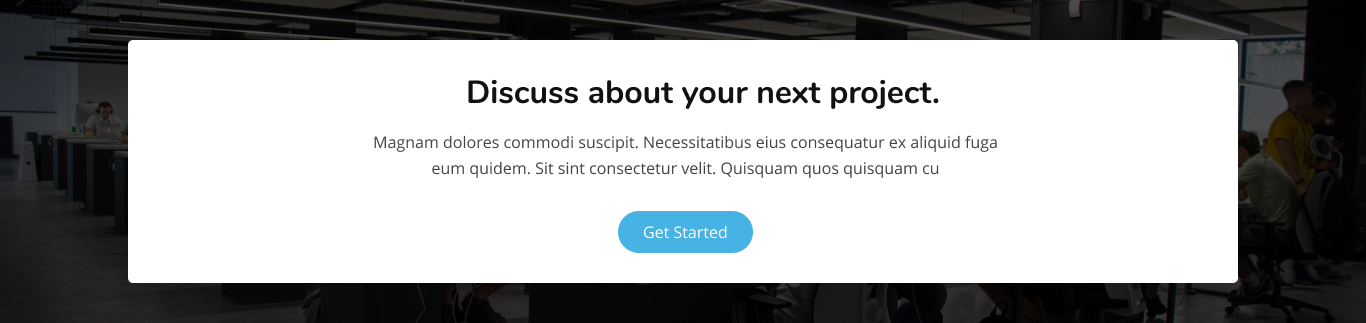
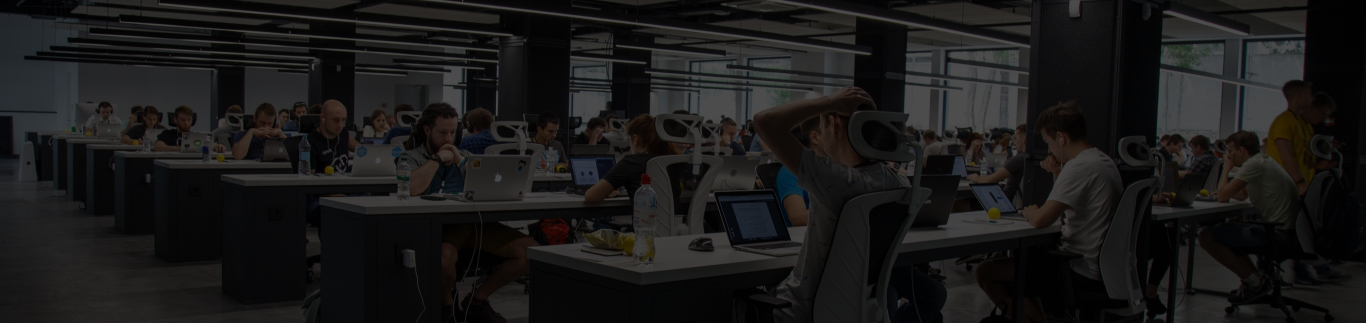
add cta section and project section

diff --git a/index.html b/index.html
@@ -250,8 +250,91 @@
        </div>
      </div>
    </section>
-   <!-- services section end -->
+   <!-- services section end -->   
+
+   <!-- CTA section start -->
    
+   <section class="cta">
+     <div class="container">
+       <div class="cta-box">
+        <div class="section-title text-center">
+          <h2 class="m-b-15">Discuss about your next project.</h2>
+          <p class="m-b-30">Magnam dolores commodi suscipit. eius consequatur ex aliquid fuga eum quidem. Sit sint consectetur velit. Quisquam quos quisquam</p>
+          <button class="btn btn-primary">Get Started</button>
+         </div>
+       </div>
+     </div>
+   </section>
+
+   <!-- CTA section end -->
+
+    <!-- project section start -->
+   
+   <section class="project">
+    <div class="section-title text-center m-b-60">
+      <h2 class="m-b-25">Our Latest Project</h2>
+      <p>Magnam dolores commodi suscipit. Necessitatibus eius consequatur ex aliquid fuga eum quidem. Sit sint consectetur velit. Quisquam quos quisquam cupidit idem hic quas.</p>
+    </div>
+     <div class="container">
+       <div class="row text-center">
+        <div class="col-md-4 m-b-30">
+          <div class="project-box">
+            <img src="img/project-1.png" class="img-100">
+            <div class="project-hover text-left">
+              <span class="primary-color m-b-6">Technology Lorem Ipsum</span>
+              <p>Lorem ipsum dolor sit amet, consectetur adipiscing elit. Odio netus arcu blandit id blandit sed. Urna orci tincidunt et amet.  </p>
+            </div>
+          </div>
+        </div>
+        <div class="col-md-4 m-b-30">
+          <div class="project-box">
+            <img src="img/project-2.png" class="img-100">
+            <div class="project-hover text-left">
+              <span class="primary-color m-b-6">Technology Lorem Ipsum</span>
+              <p>Lorem ipsum dolor sit amet, consectetur adipiscing elit. Odio netus arcu blandit id blandit sed. Urna orci tincidunt et amet.  </p>
+            </div>
+          </div>
+        </div>
+        <div class="col-md-4 m-b-30">
+          <div class="project-box">
+            <img src="img/project-3.png" class="img-100">
+            <div class="project-hover text-left">
+              <span class="primary-color m-b-6">Technology Lorem Ipsum</span>
+              <p>Lorem ipsum dolor sit amet, consectetur adipiscing elit. Odio netus arcu blandit id blandit sed. Urna orci tincidunt et amet.  </p>
+            </div>
+          </div>
+        </div>
+        <div class="col-md-4 m-b-30">
+          <div class="project-box">
+            <img src="img/project-4.png" class="img-100">
+            <div class="project-hover text-left">
+              <span class="primary-color m-b-6">Technology Lorem Ipsum</span>
+              <p>Lorem ipsum dolor sit amet, consectetur adipiscing elit. Odio netus arcu blandit id blandit sed. Urna orci tincidunt et amet.  </p>
+            </div>
+          </div>
+        </div>
+        <div class="col-md-4 m-b-30">
+          <div class="project-box">
+            <img src="img/project-5.png" class="img-100">
+            <div class="project-hover text-left">
+              <span class="primary-color m-b-6">Technology Lorem Ipsum</span>
+              <p>Lorem ipsum dolor sit amet, consectetur adipiscing elit. Odio netus arcu blandit id blandit sed. Urna orci tincidunt et amet.  </p>
+            </div>
+          </div>
+        </div>
+        <div class="col-md-4 m-b-30">
+          <div class="project-box">
+            <img src="img/project-6.png" class="img-100">
+            <div class="project-hover text-left">
+              <span class="primary-color m-b-6">Technology Lorem Ipsum</span>
+              <p>Lorem ipsum dolor sit amet, consectetur adipiscing elit. Odio netus arcu blandit id blandit sed. Urna orci tincidunt et amet.  </p>
+            </div>
+          </div>
+        </div>
+     </div>
+   </section>
+
+   <!-- project section end -->
    
 
     <!-- jquery -->

diff --git a/css/main.css b/css/main.css
@@ -27,6 +27,10 @@ img {
     vertical-align: middle;    
 }
 
+.img-100{
+    width: 100%;
+}
+
 ul {
     list-style: none;
 }
@@ -48,6 +52,7 @@ p{
     font-weight: 400;
     line-height: 1.625rem;
     margin: 0;
+    color: var(--text-color) !important;
 }
 
 .hero-p{
@@ -92,20 +97,38 @@ section{
 
 /* color */
 .white{
-    color: var(--white-color);
+    color: var(--white-color) !important;
 }
+
+.primary-color{
+    color: var(--primary-color);
+}
+
 /* margin */
+
+/* top */
 .m-t-25{
     margin-top: 1.5625rem;
 }
+
+/* bottom */
+.m-b-6{
+    margin-bottom: 0.375rem;
+}
 .m-b-10{
     margin-bottom: 0.625rem;
+}
+.m-b-15{
+    margin-bottom: 0.9375rem;
 }
 .m-b-20{
     margin-bottom: 1.25rem;
 }
 .m-b-25{
     margin-bottom: 1.5625rem;
+}
+.m-b-30{
+    margin-bottom: 1.875rem;
 }
 .m-b-40{
     margin-bottom: 2.5rem;
@@ -116,6 +139,8 @@ section{
 .m-b-60{
     margin-bottom: 3.75rem;
 }
+
+/* left */
 .m-l-10{
     margin-left: 0.625rem;
 }
@@ -384,7 +409,76 @@ section{
 .services .services-box .details-box a:hover img{
     opacity: 0.8;
 }
+
 /* services section end */
+
+/* CTA section start */
+
+.cta{
+    padding: 40px 0;
+    background-image: url(../img/CTA-background.jpg);
+}
+.cta .cta-box{
+    background-color: var(--white-color);
+    padding: 1.875rem;
+    border-radius: 5px;
+}
+
+/* CTA section end */
+
+/* Project section start */
+
+.project .project-box{
+    position: relative;
+}
+
+.project .project-box::after{
+    content: '';
+    position: absolute;
+    top: 0;
+    left: 0;
+    height: 100%;
+    width: 100%;
+    background-color: rgba(71, 178, 228, 0.7);
+    z-index: 1;
+    display: none;
+    opacity: 0;
+    transition: all 0.3s ease;
+}
+
+.project .project-box .project-hover{
+    background-color: var(--white-color);
+    border-radius: 5px;
+    padding: 0.625rem;
+    position: absolute;
+    left: 1.125rem;
+    right: 1.125rem;
+    bottom: 1.125rem;
+    z-index: 1000;
+    transform: translateX(-50px);
+    opacity: 0;
+    transition: all 0.3s ease;
+}
+
+.project .project-box:hover .project-hover{
+    transform: translateX(0px);
+    opacity: 1;
+}
+.project .project-box:hover::after{
+    display: block;
+    opacity: 1;
+}
+
+.project .project-box .project-hover span{
+    font-size: 20px;
+}
+
+.project .project-box .project-hover p{
+    line-height: 22px;
+    font-size: 14px;
+}
+
+/* Project section end */
 
 /* 
 container  laptop / large tablet width 1260px
